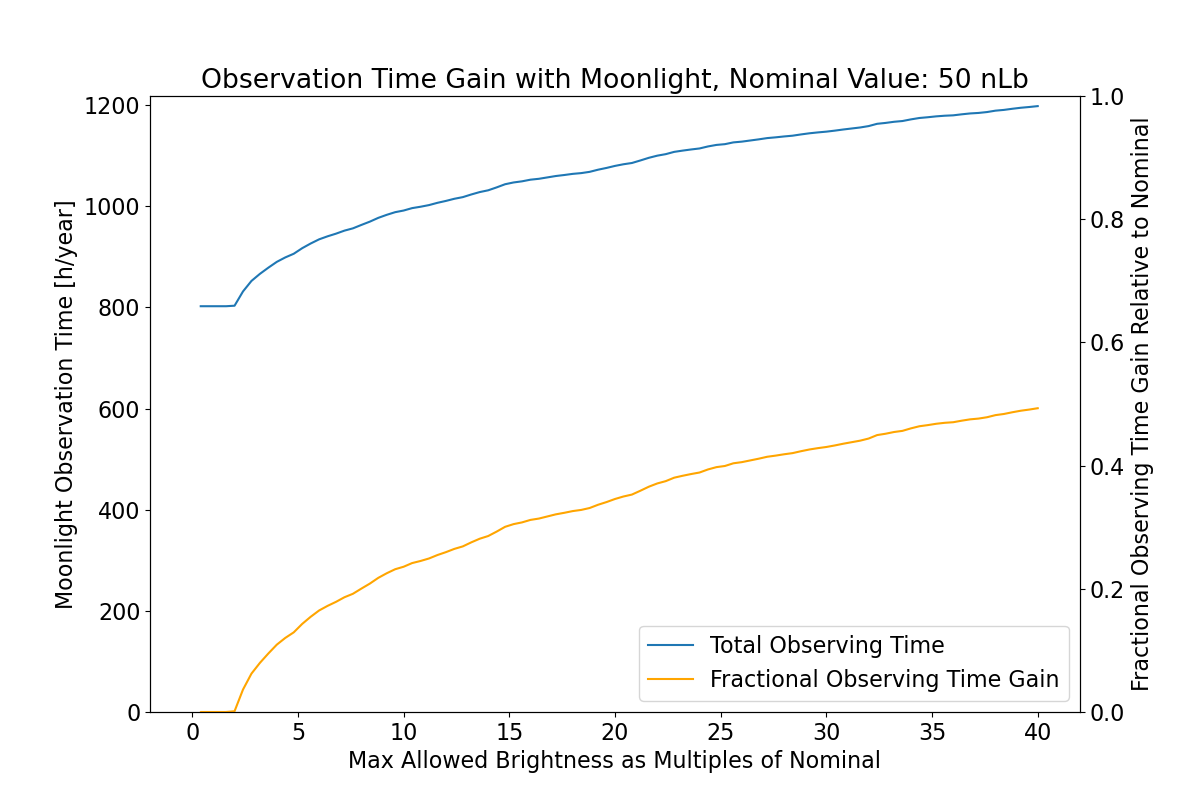
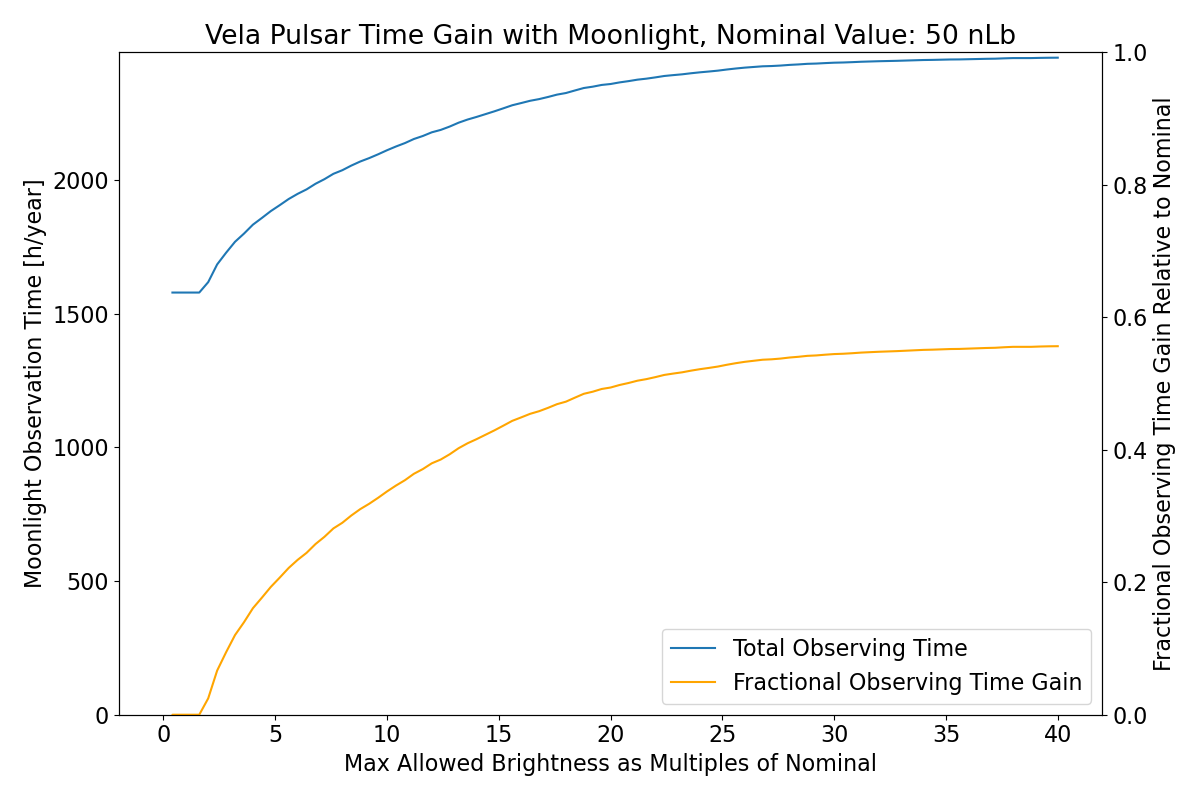
Added fractional time gain to obs time plots

diff --git a/scripts/obstime.py b/scripts/obstime.py
@@ -31,10 +31,10 @@ con = config.TheConfiguration()
 starttime = Time('2022-01-27T04:46:00') #This absolutely must be in UTC, by virtue of NSB failing if you enter in local time.                                                                               
 #loc = EarthLocation.from_geodetic(lon=14.974609, lat=37.693267, height=1750*u.m) #ASTRI Site Coordinates                                                                                                   
 loc = EarthLocation.from_geodetic(lon=-70.317876,lat=-24.681546,height=2176.6*u.m) #SST1 Paranal Position                                                                                                   
-obsalt = 17.447627264098198*u.deg
-obsaz = 31.1222350543622*u.deg
+obsalt = 69.3981*u.deg
+obsaz = 177.20452*u.deg
 
-sourcename = 'Mrk421' # Mypycat Source Name                                                                                                                                                            
+sourcename = 'Vela Pulsar' # Mypycat Source Name                                                                                                                                                           
 
 aa = AltAz(alt=obsalt,az=obsaz,location=loc,obstime=starttime)
 
@@ -54,7 +54,7 @@ nominal = 50
 threshold = 2000                                          
 
 mpc=mypycat()
-source=mpc.get("Mrk421")
+source=mpc.get(sourcename)
 
 def plotTimespan_Hz(model,PDEaverage,sapixel,mirrorarea,transmission,norm=264.8*10**6):
     # verbose timing output
@@ -165,8 +165,6 @@ def plotTimespan_Hz(model,PDEaverage,sapixel,mirrorarea,transmission,norm=264.8*
 
     # Pad margins so that markers don't get clipped by the axes
     # plt.margins(0.2)
-    fig.tight_layout()
-
     plt.draw()
     return bv
 
@@ -205,10 +203,11 @@ def plotObsTime_nom(model,nom):
     labs = [l.get_label() for l in lns]
     plt.legend(lns, labs, loc='lower right')
     ax = plt.gca()
-    plt.title("Observation Time Gain with Moonlight, Nominal Value: "+str(nom)+' nLb')
+    plt.title(model.source.name+" Time Gain with Moonlight, Nominal Value: "+str(nom)+' nLb')
     ax1.set_xlabel('Max Allowed Brightness as Multiples of Nominal')
     ax1.set_ylabel('Moonlight Observation Time [h/year]')
     ax2.set_ylabel('Fractional Observing Time Gain Relative to Nominal')
+    fig.tight_layout()
     plt.draw()
 
 gaiamap=Gaia(level=11)
